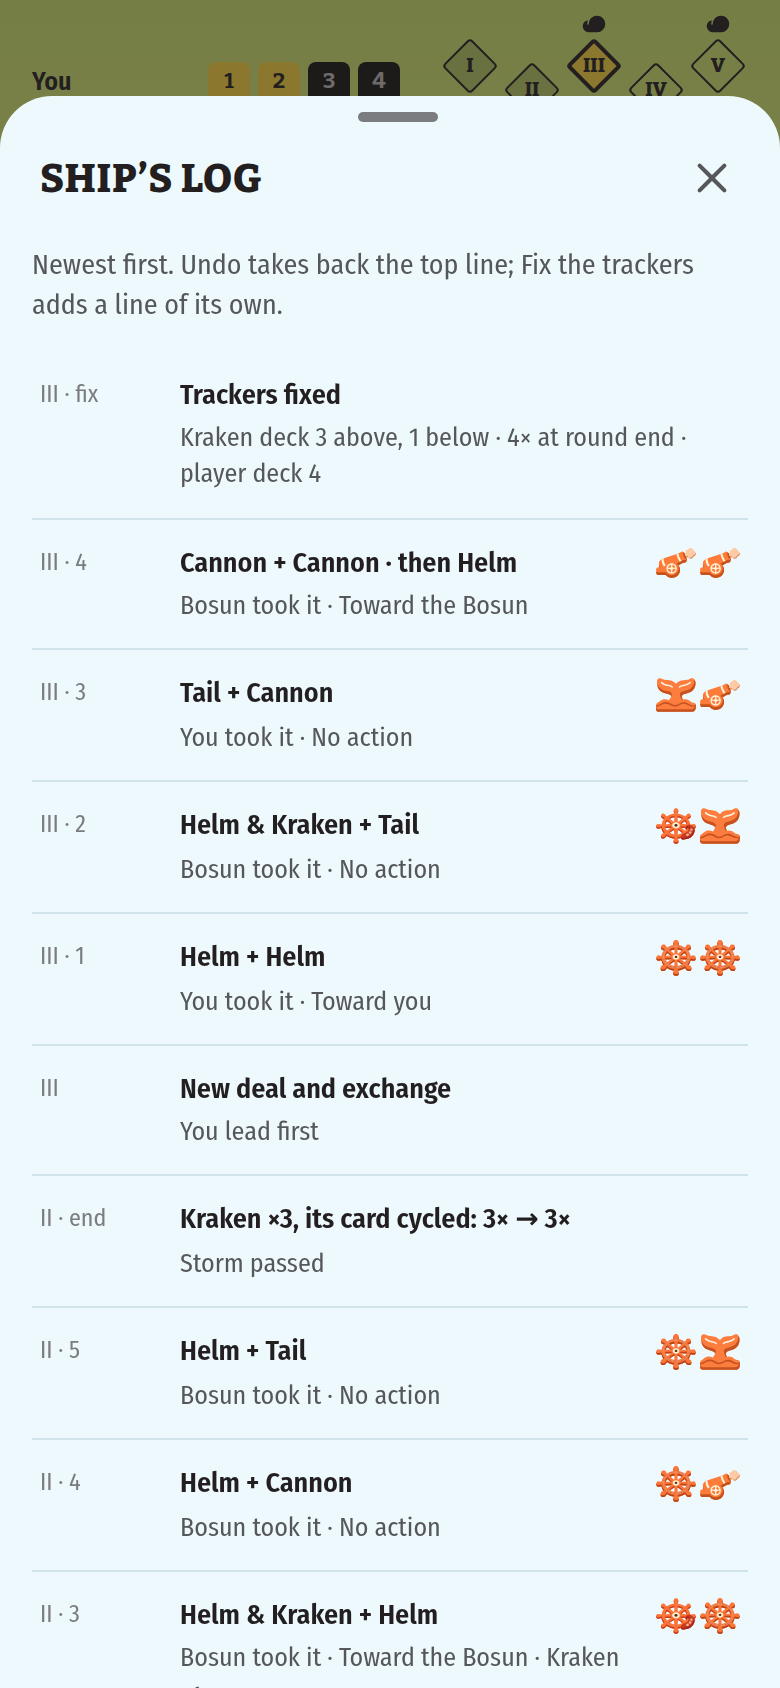
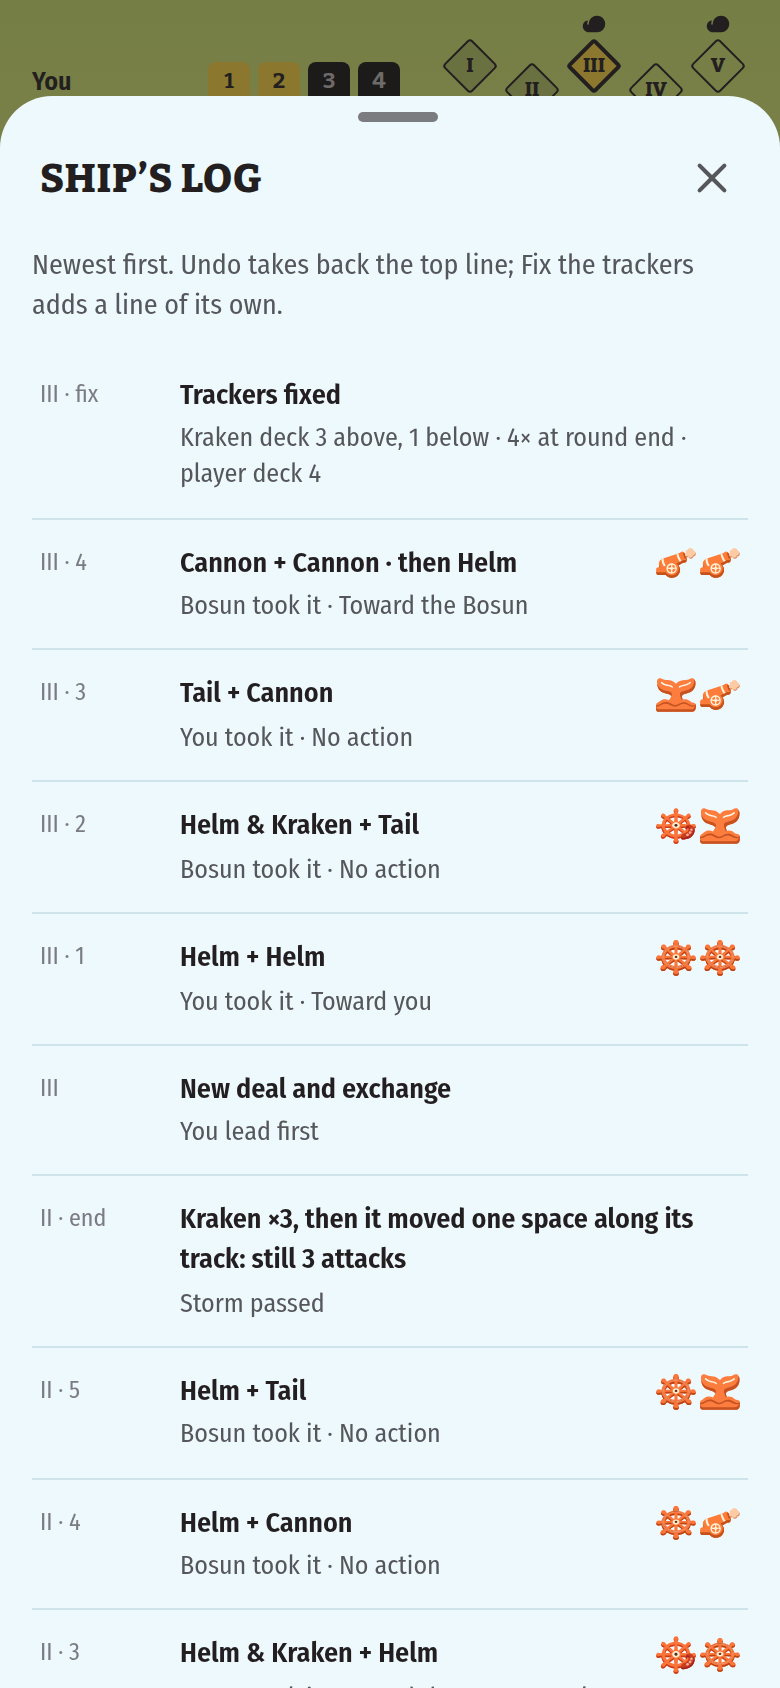
fix(ui): say the Kraken moved along its track (#38)
Round end and the ship's log say the Kraken moved one space and how many attacks follow, instead of reading 3x to 3x on the track 3, 3, 4, 5; Russian counts attacks with a plural.

Closes #36

diff --git a/src/ui/game/log.ts b/src/ui/game/log.ts
@@ -1,6 +1,7 @@
 import {
   shipsLog,
   TRACK,
+  type AttackEffect,
   type CardSymbol,
   type LogEntry,
   type TrackIndex,
@@ -54,7 +55,7 @@ export function logRows(t: Translate, state: VoyageState): LogRow[] {
           key,
           code: t('shipsLog.codeTrick', { round, n: e.trick }),
           title: pairName(t, e.yours, e.bosuns, e.flips),
-          detail: trickDetail(t, e),
+          detail: trickDetail(t, e, entries.slice(i + 1)),
           symbols: [e.yours, e.bosuns],
         })
         break
@@ -106,7 +107,11 @@ export function logRows(t: Translate, state: VoyageState): LogRow[] {
   return rows
 }
 
-function trickDetail(t: Translate, e: Extract<LogEntry, { kind: 'trick' }>): string {
+function trickDetail(
+  t: Translate,
+  e: Extract<LogEntry, { kind: 'trick' }>,
+  older: readonly LogEntry[],
+): string {
   const parts = [t('shipsLog.took', { side: e.winner })]
   if (e.skipped) {
     parts.push(t('shipsLog.skipped'))
@@ -119,30 +124,43 @@ function trickDetail(t: Translate, e: Extract<LogEntry, { kind: 'trick' }>): str
     e.move === 'towardWinner' ? (e.winner === 'you' ? 'towardYou' : 'towardBosun') : e.move
   if (move !== 'none') parts.push(t('shipsLog.move', { move }))
   if (e.onto && e.onto !== 'open') parts.push(t('shipsLog.onto', { token: e.onto }))
-  if (e.attacks.length > 0) parts.push(t('shipsLog.attacks', { n: e.attacks.length }))
+  if (e.attacks.length > 0) {
+    parts.push(krakenMoved(t, e.attacks, older) ?? t('shipsLog.attacks', { n: e.attacks.length }))
+  }
   if (parts.length === 1) parts.push(t('shipsLog.move', { move: 'none' }))
   return parts.join(' · ')
 }
 
-/**
- * "Kraken ×3, its card cycled: 3× → 4×". The track before the round end is replayed from the
- * older entries: the setup's space, moved by every Kraken card that came up before.
- */
+/** A round end's title: "Kraken ×3", with the Kraken's move when its card came up. */
 function roundEndTitle(
   t: Translate,
   e: Extract<LogEntry, { kind: 'roundEnd' }>,
   older: readonly LogEntry[],
 ): string {
-  const cycled = e.attacks.filter((a) => a.kind === 'krakenCard')
-  const last = cycled[cycled.length - 1]
-  if (!last || last.kind !== 'krakenCard') return t('shipsLog.roundEnd', { n: e.attacks.length })
-  const before = trackBefore(older)
-  const from = TRACK[before]
+  return krakenMoved(t, e.attacks, older) ?? t('shipsLog.roundEnd', { n: e.attacks.length })
+}
+
+/**
+ * "Kraken ×3, then it moved one space along its track: still 3 attacks", or null when the
+ * Kraken card didn't come up. The track reads 3, 3, 4, 5, skull, so the first move keeps 3
+ * attacks, and "3× → 3×" read as if nothing happened (#36). The track before is replayed from
+ * the older entries: the setup's space, moved by every Kraken card that came up before.
+ */
+function krakenMoved(
+  t: Translate,
+  attacks: readonly AttackEffect[],
+  older: readonly LogEntry[],
+): string | null {
+  const moves = attacks.filter((a) => a.kind === 'krakenCard')
+  const last = moves[moves.length - 1]
+  if (!last || last.kind !== 'krakenCard') return null
+  const from = TRACK[trackBefore(older)]
   const to = TRACK[last.track]
-  return t('shipsLog.roundEndCycled', {
-    n: e.attacks.length,
-    from: t('roundEnd.times', { n: String(from) }),
-    to: to === 'skull' ? t('hud.skull') : t('roundEnd.times', { n: String(to) }),
+  return t('shipsLog.krakenMoved', {
+    n: attacks.length,
+    spaces: moves.length,
+    change: to === 'skull' ? 'skull' : to === from ? 'same' : 'more',
+    attacks: to === 'skull' ? 0 : to,
   })
 }
 

diff --git a/src/ui/game/Game.test.tsx b/src/ui/game/Game.test.tsx
@@ -10,6 +10,10 @@ beforeEach(() => localStorage.clear())
 
 const events = () => loadVoyage().voyage?.events ?? []
 const heading = () => screen.getByRole('heading', { level: 1 })
+// Round I ends with the Kraken card on top: its meeple moves from the first 3 to the second.
+const KRAKEN_FIRST_MOVE = 'x Ykc . Ykc . Ykc . Bkk @k . Bkk @k . Y!'
+// Round II ends with it on top again: from the second 3 to the 4.
+const KRAKEN_SECOND_MOVE = `${KRAKEN_FIRST_MOVE} e d x Ykc . Ykc . B!*4`
 const done = () => screen.getByRole('button', { name: /^(Done|Next|Exchange|Dealt)/ })
 
 describe('the exchange (C1)', () => {
@@ -187,10 +191,21 @@ describe('round end (C8) and the new deal (C9)', () => {
     expect(screen.getByText('You lead first this round.')).toBeInTheDocument()
   })
 
+  // The track reads 3, 3, 4, 5, skull (docs/rules.md → The Kraken track; #36).
+  it('says the Kraken moved when its first move keeps 3 attacks', () => {
+    renderGame(fromScript(KRAKEN_FIRST_MOVE))
+    expect(heading()).toHaveTextContent('ROUND I ENDS')
+    expect(screen.getByRole('img', { name: 'Attacks at round end: still 3' })).toBeInTheDocument()
+    expect(
+      screen.getByText('The Kraken moves to the next space: still 3 attacks at each round end.'),
+    ).toBeInTheDocument()
+  })
+
   it('shows the track change when the Kraken card comes up: 3× → 4×', () => {
-    renderGame(fromScript('x Ykc . Ykc . Ykc . Bkk @k . Bkk @k . Y! e d x Ykc . Ykc . B!*4'))
+    renderGame(fromScript(KRAKEN_SECOND_MOVE))
     expect(heading()).toHaveTextContent('ROUND II ENDS')
     expect(screen.getByRole('img', { name: 'Attacks at round end: 3 to 4' })).toBeInTheDocument()
+    expect(screen.getByText('From now on, 4 attacks at each round end.')).toBeInTheDocument()
   })
 
   it('goes to the result when the voyage is lost', async () => {
@@ -278,6 +293,22 @@ describe('the ship’s log (D4) and Fix the trackers (D5)', () => {
     expect(rows[0]).toHaveTextContent('Bosun took it · The Kraken is hit: card under its deck')
     expect(rows[1]).toHaveTextContent('You took it · Toward you')
     expect(rows[2]).toHaveTextContent('The exchange')
+  })
+
+  it('says the Kraken moved along its track at each round end, still 3 then 4 attacks', async () => {
+    const user = userEvent.setup()
+    renderGame(fromScript(`${KRAKEN_SECOND_MOVE} s+ e`))
+    await user.click(screen.getByRole('button', { name: 'Log' }))
+    const sheet = screen.getByRole('dialog', { name: 'SHIP’S LOG' })
+    const ends = within(sheet)
+      .getAllByRole('listitem')
+      .filter((row) => /moved/.test(row.textContent ?? ''))
+    expect(ends.map((row) => row.textContent)).toEqual([
+      expect.stringContaining('Kraken ×3, then it moved one space along its track: now 4 attacks'),
+      expect.stringContaining(
+        'Kraken ×3, then it moved one space along its track: still 3 attacks',
+      ),
+    ])
   })
 
   it('fixes the trackers into the log, and Undo takes the fix back', async () => {

diff --git a/src/ui/game/Steps.tsx b/src/ui/game/Steps.tsx
@@ -453,10 +453,14 @@ export function RoundEndStep({ step, state, dispatch, amend, dock }: StepProps<'
                     <span
                       className={styles.fury}
                       role="img"
-                      aria-label={t('roundEnd.furyLabel', {
-                        from: String(from),
-                        to: to === 'skull' ? t('hud.skull') : String(to),
-                      })}
+                      aria-label={
+                        from === to
+                          ? t('roundEnd.furyLabelSame', { n: String(to) })
+                          : t('roundEnd.furyLabel', {
+                              from: String(from),
+                              to: to === 'skull' ? t('hud.skull') : String(to),
+                            })
+                      }
                     >
                       <span aria-hidden="true">{t('roundEnd.times', { n: String(from) })}</span>
                       <ArrowRight size={14} weight="fill" aria-hidden />
@@ -469,7 +473,10 @@ export function RoundEndStep({ step, state, dispatch, amend, dock }: StepProps<'
                       </span>
                     </span>
                     <span className={styles.hint}>
-                      {to === 'skull' ? t('roundEnd.skull') : t('roundEnd.fury', { n: to })}
+                      {to === 'skull'
+                        ? t('roundEnd.skull')
+                        : // 3, 3, 4, 5: the first move keeps 3 attacks, so say it moved (#36).
+                          t(from === to ? 'roundEnd.furySame' : 'roundEnd.fury', { n: to })}
                     </span>
                   </span>
                 </li>
